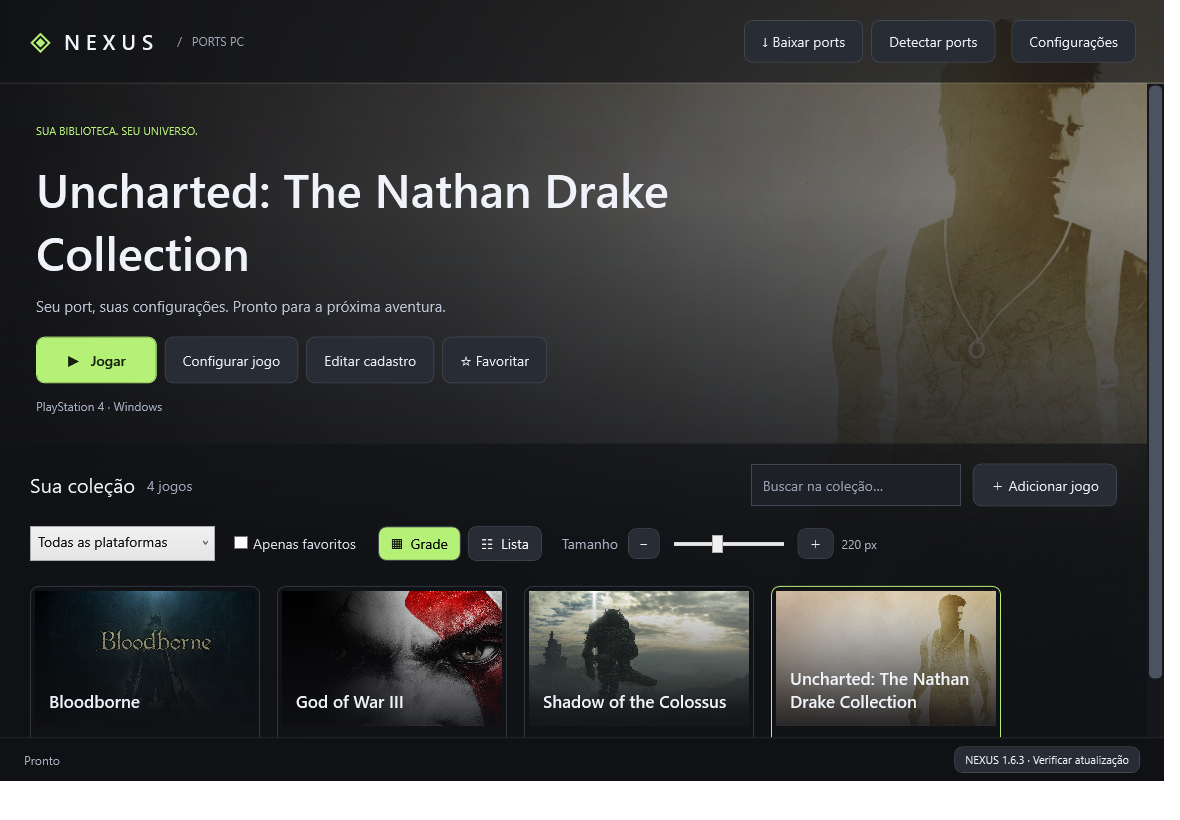
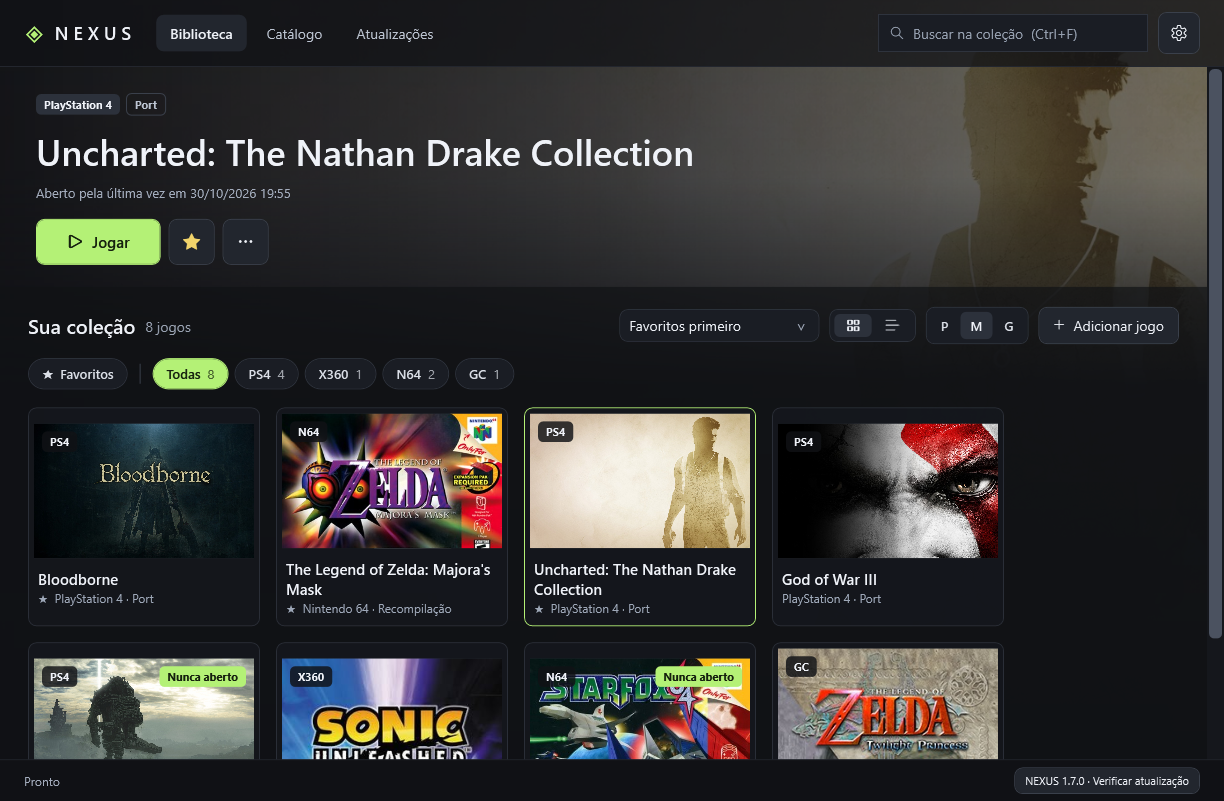
Release NEXUS 1.7.0
- Version 1.7.0 (stable) for the new library and catalog layout.
- README describes the new interface, keyboard and controller support.
- New screenshots captured from the client area.
- Document how to refresh the audited bundled releases cache.

diff --git a/src/Program.cs b/src/Program.cs
@@ -20,9 +20,9 @@ using Microsoft.Win32;
 
 [assembly: AssemblyTitle("NEXUS · Ports PC")]
 [assembly: AssemblyProduct("NEXUS Ports PC")]
-[assembly: AssemblyVersion("1.6.90.0")]
-[assembly: AssemblyFileVersion("1.6.90.0")]
-[assembly: AssemblyInformationalVersion("1.7.0-beta.2")]
+[assembly: AssemblyVersion("1.7.0.0")]
+[assembly: AssemblyFileVersion("1.7.0.0")]
+[assembly: AssemblyInformationalVersion("1.7.0")]
 [assembly: System.Runtime.Versioning.TargetFramework(".NETFramework,Version=v4.8")]
 namespace Nexus {
   public static class Program {

diff --git a/README.md b/README.md
@@ -6,27 +6,25 @@ Reúna seus ports de console em um só launcher para **Windows 11 x64**. Organiz
 
 [**Baixar NEXUS**](https://github.com/teasergames/ports-pc/releases/latest) · [Releases e novidades](https://github.com/teasergames/ports-pc/releases) · [Catálogo de projetos](CATALOG.md) · [Relatar um problema](https://github.com/teasergames/ports-pc/issues/new/choose)
 
-> [!NOTE]
-> **Versão prévia 1.7.0-beta.2:** novo visual da biblioteca e do catálogo, filtros por tipo de projeto (port, recompilação, decompilação…) e modo de instalação, aba de novidades, catálogo atualizado online, atalhos de teclado e navegação por controle. Disponível nas [Releases](https://github.com/teasergames/ports-pc/releases) como pre-release; não é instalada pela atualização automática. As instruções abaixo descrevem a versão estável.
-
 > [!IMPORTANT]
 > **O NEXUS NÃO DISTRIBUI NENHUM TIPO DE ARQUIVO DOS JOGOS. VOCÊ PRECISARÁ DA SUA PRÓPRIA CÓPIA DUMPADA DO CONSOLE.**
 >
 > Nenhuma ROM, ISO, dump, chave de console ou firmware acompanha o NEXUS. Você precisa fornecer os arquivos da sua própria cópia do jogo, no formato e na versão exigidos por cada port. Baixar um port pelo catálogo não fornece o jogo.
 
-![Biblioteca do NEXUS em modo grade, com artwork ao fundo e filtros por plataforma](docs/images/nexus-grid.png)
+![Biblioteca do NEXUS em modo grade, com artwork ao fundo, chips de plataforma e selos nos cards](docs/images/nexus-grid.png)
 
 *Exemplo ilustrativo da interface com uma biblioteca configurada. Os jogos e suas artworks não acompanham o download do NEXUS.*
 
 ## O que você pode fazer
 
-- **Organizar sua coleção:** visualização em grade ou lista, tamanho ajustável, busca e favoritos.
-- **Filtrar por plataforma:** PlayStation, Xbox, Nintendo e outras plataformas presentes no catálogo.
-- **Baixar ports:** consultar os projetos e instalar os pacotes compatíveis a partir das fontes dos autores, quando houver integração disponível.
+- **Organizar sua coleção:** grade ou lista em três tamanhos, ordenação, busca, favoritos e filtro pelas plataformas que você tem.
+- **Encontrar projetos:** catálogo filtrado por plataforma, tipo de projeto (port, recompilação, decompilação, reimplementação) e modo de instalação, com aba de novidades.
+- **Baixar ports:** consultar os projetos e instalar os pacotes compatíveis a partir das fontes dos autores, quando houver integração disponível. O catálogo é atualizado online, sem precisar de uma nova versão do NEXUS.
 - **Jogar e configurar:** abrir o port e seu launcher de configuração conforme o suporte de cada projeto.
 - **Personalizar o visual:** artworks locais ou busca online, com fundo do jogo selecionado.
 - **Excluir um port:** conferir as pastas e confirmar a remoção permanente dos arquivos, incluindo backups e cache identificados quando selecionados.
-- **Manter tudo atualizado:** verificar atualizações dos ports gerenciados e atualizar o próprio NEXUS, com reinício automático.
+- **Manter tudo atualizado:** a aba **Atualizações** mostra os ports com versão nova, e o próprio NEXUS se atualiza com reinício automático.
+- **Usar teclado ou controle:** navegue pela coleção e abra jogos sem o mouse.
 
 ## Como instalar
 
@@ -43,39 +41,52 @@ O NEXUS é portátil: não precisa de instalação tradicional, conta, Node.js o
 
 ### Pelo catálogo
 
-Abra **Baixar ports**, escolha a plataforma ou busque pelo título e leia as instruções do projeto. Use **Baixar e adicionar** ou **Baixar e instalar**, conforme o perfil, e escolha o destino.
+Abra **Catálogo** na barra superior, filtre por plataforma, tipo de projeto ou instalação, ou busque pelo título, e leia as instruções do projeto. A aba **Novidades** mostra o que entrou desde a sua última visita. Use **Baixar e adicionar** ou **Baixar e instalar**, conforme o perfil, e escolha o destino.
 
 Depois do download, prepare sua própria cópia do jogo no assistente do autor. Alguns projetos precisam compilar o jogo no primeiro início. Entradas com preparação manual abrem os downloads oficiais e explicam os passos necessários.
 
 ### Se você já tem um port instalado
 
-Use **Adicionar jogo** e selecione o executável `.exe` ou atalho `.lnk`. Confira o nome, a plataforma e a pasta de trabalho; salve e clique em **Jogar**. **Detectar ports** procura instalações conhecidas na pasta Downloads.
+Use **Adicionar jogo → Escolher executável ou atalho** e selecione o `.exe` ou `.lnk`. Confira o nome, a plataforma e a pasta de trabalho; salve e clique em **Jogar**. **Adicionar jogo → Detectar ports em Downloads** procura instalações conhecidas na pasta Downloads.
 
-Em **Editar cadastro**, você pode ajustar argumentos, escolher uma artwork e associar um launcher de configuração. **Configurar jogo** aparece quando existe uma configuração externa ou preparação compatível; alguns ports oferecem suas opções apenas dentro do jogo.
+No menu **⋯ → Editar cadastro**, você pode ajustar argumentos, escolher uma artwork e associar um launcher de configuração. **Configurar** aparece quando existe uma configuração externa ou preparação compatível; alguns ports oferecem suas opções apenas dentro do jogo.
 
 ## Uma coleção do seu jeito
 
-Alterne entre **Grade** e **Lista** e use o controle **Tamanho** para ajustar a visualização. O NEXUS lembra suas preferências.
+Alterne entre grade e lista, escolha o tamanho **P**, **M** ou **G** e ordene por favoritos, jogados recentemente, nome ou plataforma. Os chips mostram só as plataformas da sua coleção. Os cards indicam a plataforma e avisam quando há atualização ou quando o jogo nunca foi aberto. O NEXUS lembra suas preferências.
 
 ![NEXUS em modo lista, com capas, nomes e filtros da coleção](docs/images/nexus-list.png)
 
-As artworks podem ser escolhidas em **Editar cadastro → Escolher imagem**. A busca automática usa imagens locais, Wikipedia e, opcionalmente, sua chave do SteamGridDB. As opções ficam em **Configurações**.
+As artworks podem ser escolhidas em **⋯ → Editar cadastro → Escolher imagem**, ou buscadas de novo em **⋯ → Buscar artwork novamente**. A busca automática usa imagens locais, Wikipedia e, opcionalmente, sua chave do SteamGridDB. As opções ficam em **Configurações**.
+
+## Teclado e controle
+
+| Ação | Teclado | Controle Xbox / XInput |
+|---|---|---|
+| Buscar na coleção | Ctrl+F | — |
+| Mudar a seleção | Setas | Direcional ou analógico esquerdo |
+| Jogar | Enter ou clique duplo | A |
+| Favoritar | — | Y |
+| Limpar busca e filtros | Esc (na busca) | B |
+| Menu de ações | — | Start |
+
+O controle só é lido com a janela do NEXUS em primeiro plano.
 
 ## Atualizações
 
 Ao abrir, o NEXUS verifica se há uma nova versão estável no GitHub. Quando disponível, baixa, verifica o pacote e reinicia automaticamente após atualizar. Também há um botão de verificação no rodapé e uma opção para desativar a atualização automática em **Configurações**.
 
-Para os ports instalados pelo catálogo, use **Verificar atualizações** em **Baixar ports**. Quando houver uma versão compatível mais recente, o botão **Atualizar** ficará disponível. Feche o jogo antes de atualizar e siga as instruções do perfil; alguns projetos precisam repetir a preparação ou compilação.
+Para os ports instalados pelo catálogo, o NEXUS confere as versões ao abrir e mostra um contador em **Atualizações**; os cards exibem o selo **Atualizar**. Quando houver uma versão compatível mais recente, o botão **Atualizar** ficará disponível. Feche o jogo antes de atualizar e siga as instruções do perfil; alguns projetos precisam repetir a preparação ou compilação.
 
 As novidades e alterações de cada versão ficam exclusivamente nas [Releases](https://github.com/teasergames/ports-pc/releases).
 
 ## Como excluir um port
 
-Selecione o jogo e clique em **Excluir port**. Confira as pastas, a quantidade de arquivos e o tamanho apresentados, marque a confirmação e use **Excluir port e arquivos**. A exclusão é permanente, sem Lixeira: dumps, saves e configurações que estiverem **dentro das pastas confirmadas** também serão apagados. Faça um backup antes de continuar.
+Selecione o jogo e use **⋯ → Excluir port e arquivos…**. Confira as pastas, a quantidade de arquivos e o tamanho apresentados, marque a confirmação e use **Excluir port e arquivos**. A exclusão é permanente, sem Lixeira: dumps, saves e configurações que estiverem **dentro das pastas confirmadas** também serão apagados. Faça um backup antes de continuar.
 
 Instalações gerenciadas usam sua pasta registrada. Para ports adicionados manualmente ou preparados por um assistente externo, escolha a pasta raiz dedicada ao port. Pastas protegidas, links e pastas compartilhadas com outro cadastro são bloqueados; feche o jogo e seu launcher antes de excluir. Arquivos em diretórios externos, como o dump de origem e saves em Documentos/AppData, permanecem no lugar. Para cadastros de atalhos `.lnk`, associe o executável real antes de excluir arquivos.
 
-Se quiser apenas tirar o jogo da lista e manter a instalação, use **Editar cadastro → Remover da coleção**.
+Se quiser apenas tirar o jogo da lista e manter a instalação, use **⋯ → Remover da coleção**.
 
 ## Seus dados e backups
 
@@ -85,6 +96,6 @@ Atualizações do NEXUS preservam a biblioteca, as artworks e os ports instalado
 
 ## Ajuda e desenvolvimento
 
-Encontrou um problema no launcher? [Abra uma issue](https://github.com/teasergames/ports-pc/issues) informando o que aconteceu e os passos para reproduzir. Para problemas específicos de um jogo, consulte também o repositório do autor do port.
+Encontrou um problema no launcher? [Abra uma issue](https://github.com/teasergames/ports-pc/issues/new/choose) informando o que aconteceu e os passos para reproduzir. Para problemas específicos de um jogo, consulte também o repositório do autor do port.
 
 Para compilar e testar o NEXUS, veja o [guia de desenvolvimento](docs/DEVELOPMENT.md). O código do launcher é distribuído sob a [licença MIT](LICENSE). Jogos, marcas e imagens pertencem aos seus respectivos titulares; os projetos de ports são independentes.

diff --git a/docs/DEVELOPMENT.md b/docs/DEVELOPMENT.md
@@ -80,7 +80,7 @@ O workflow [`releases-cache.yml`](../.github/workflows/releases-cache.yml) roda 
 ./tools/update-releases-cache.ps1 -Output out/releases-cache.json -Limit 5
 ```
 
-Antes de uma Release, copie o resultado para `assets/releases-cache.json` para atualizar o cache embutido.
+O cache embutido em `assets/releases-cache.json` é um retrato auditado e os testes fixam alguns fatos dele (por exemplo, quais perfis ainda são beta). Para renová-lo, copie o resultado do script e ajuste esses testes no mesmo commit.
 
 ### Página do catálogo
 
